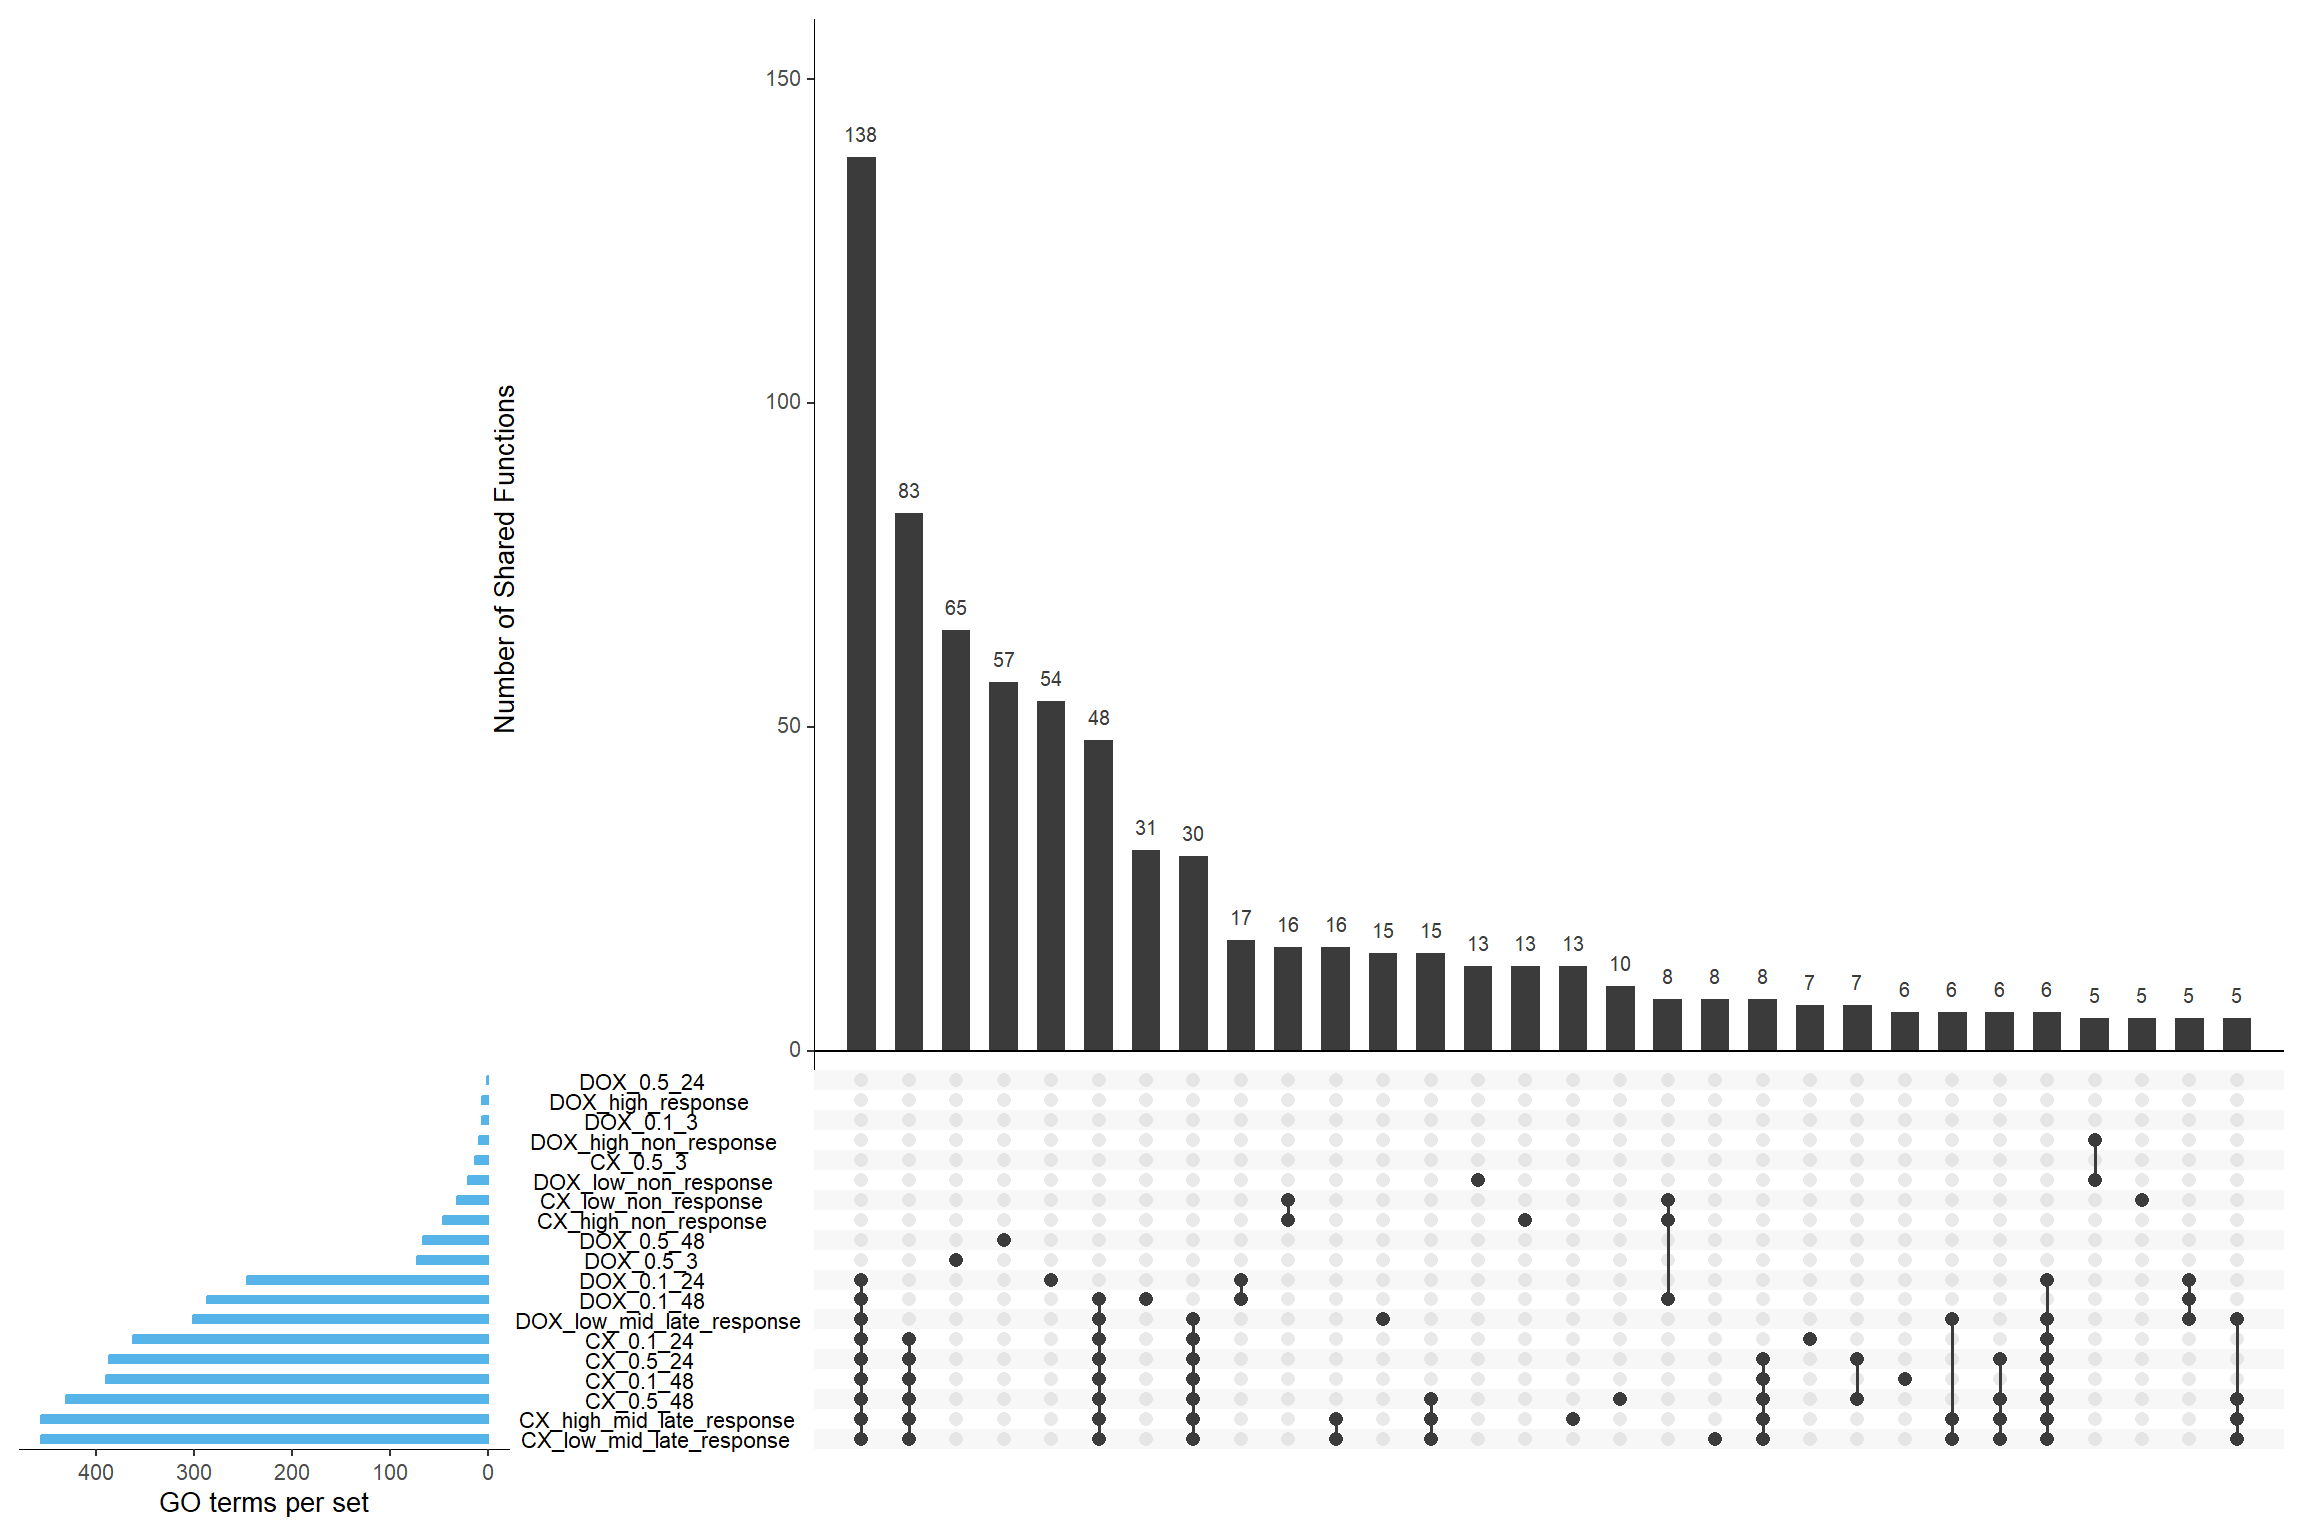
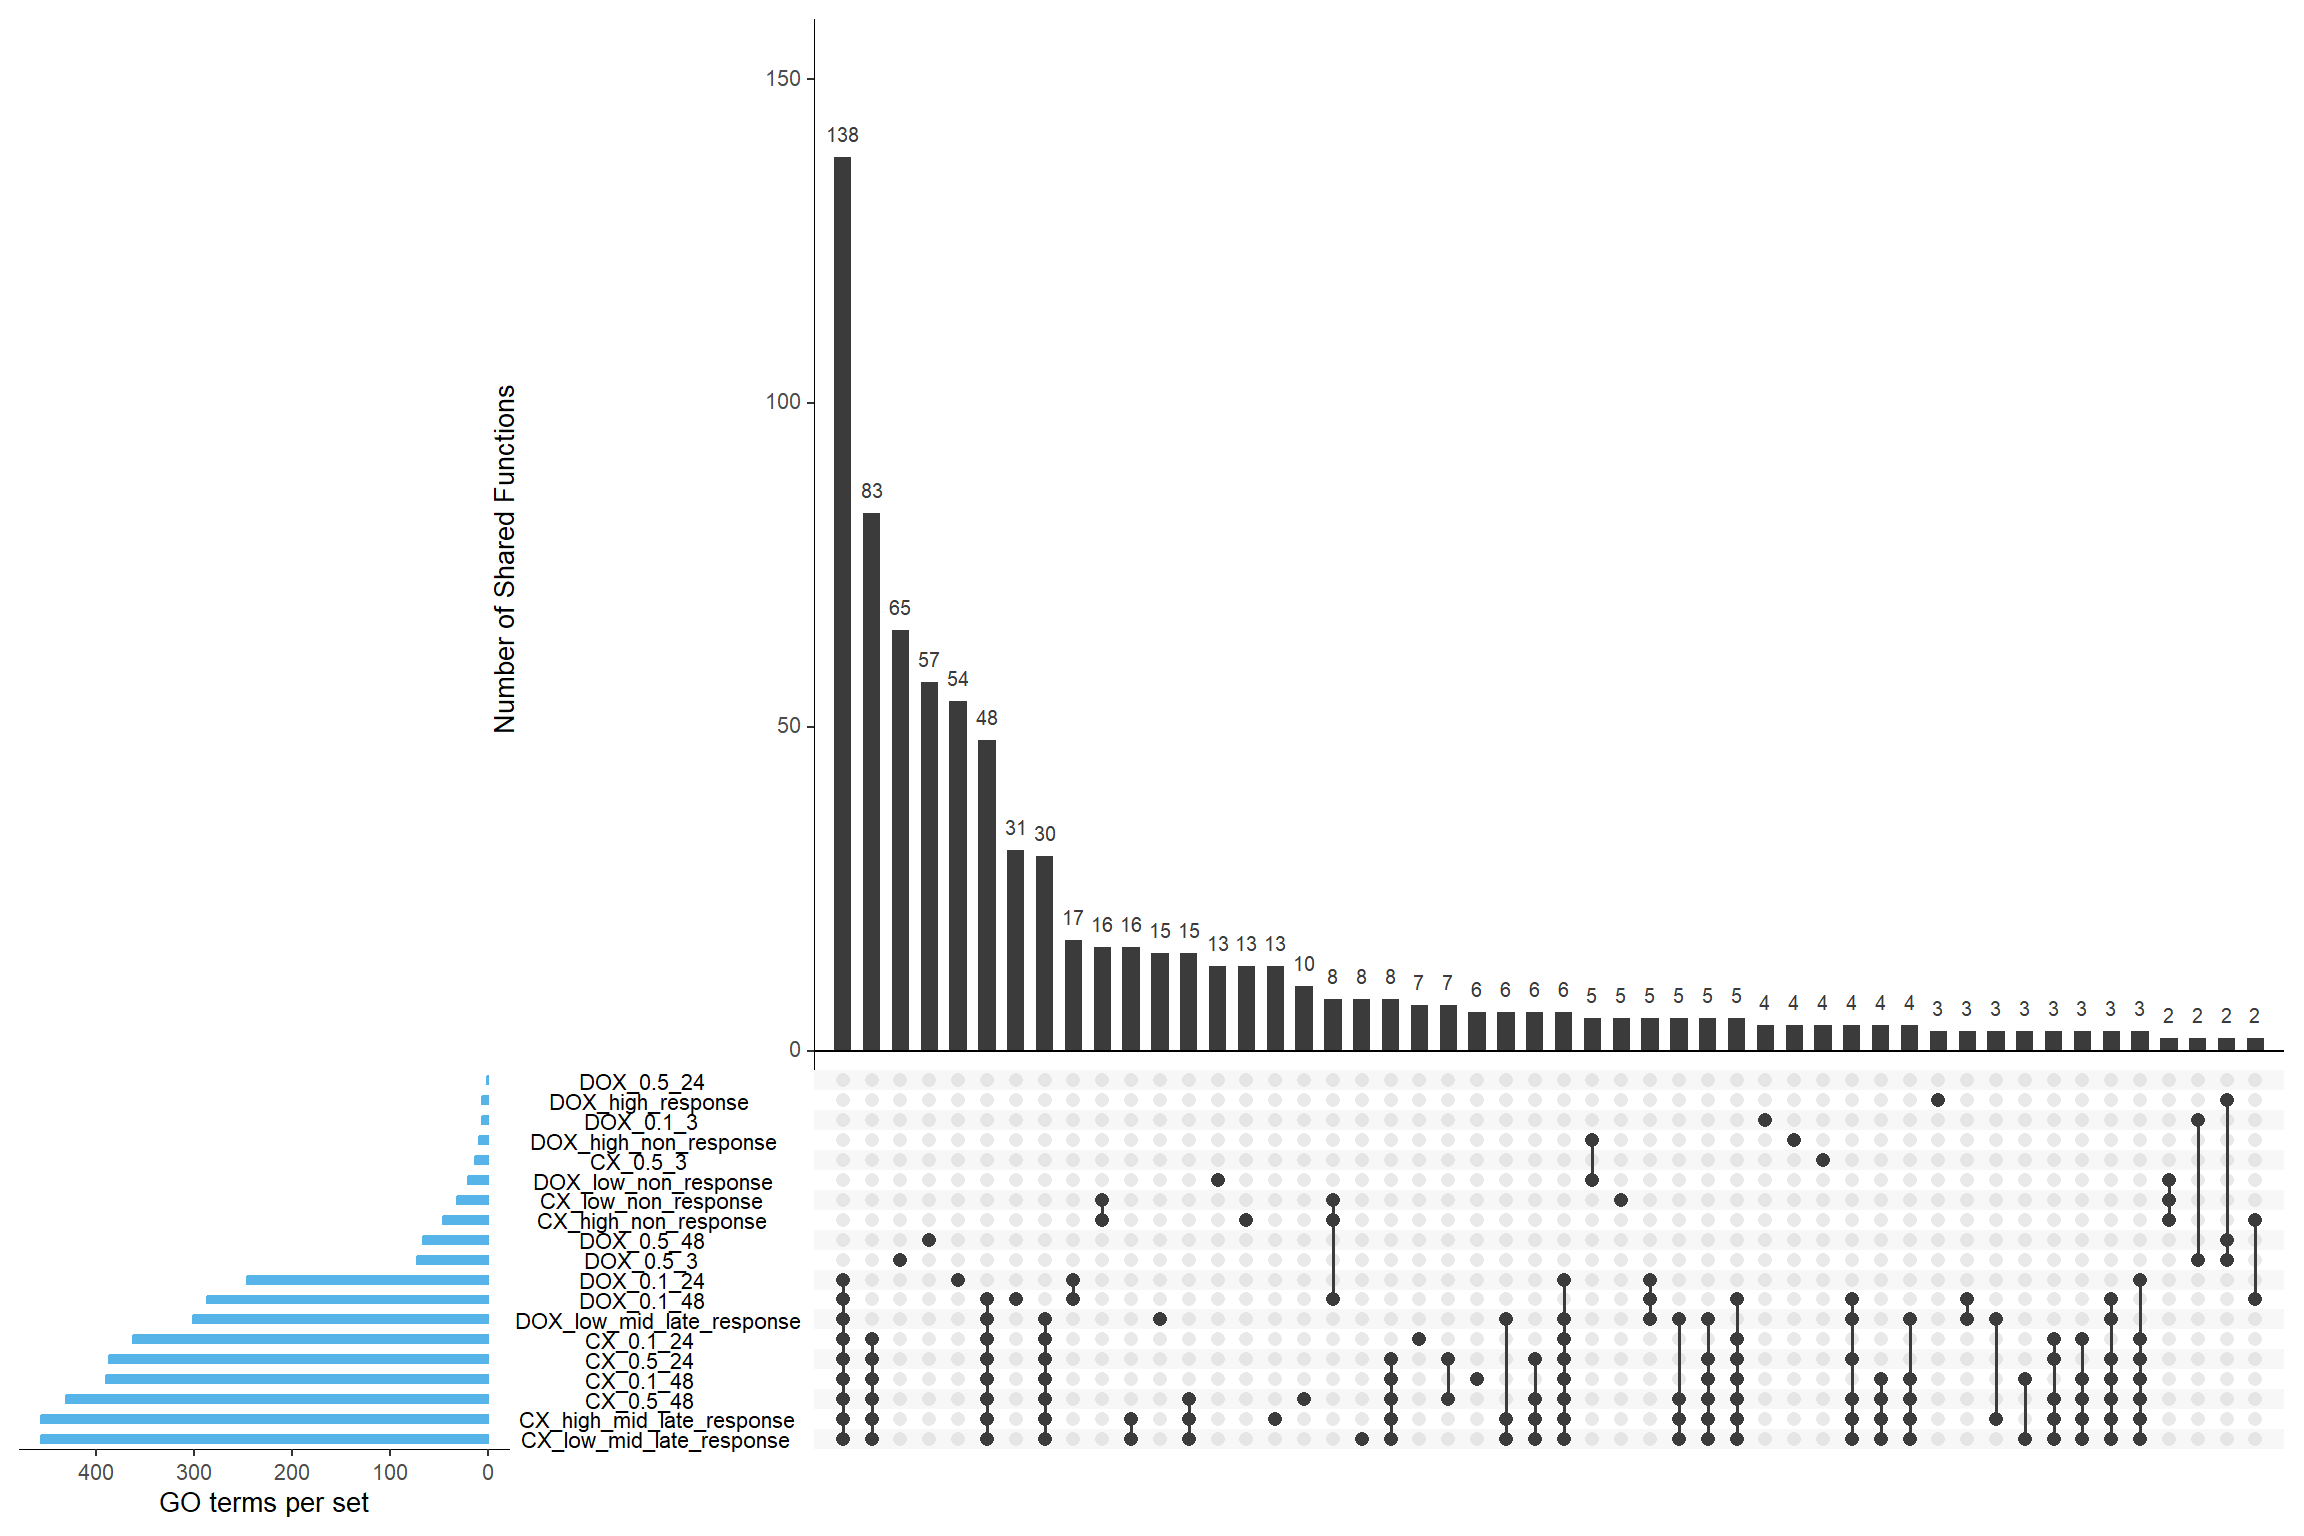
Commit

diff --git a/docs/Corrmotif_overlap.html b/docs/Corrmotif_overlap.html
@@ -512,15 +512,15 @@ project makes it easier to run your code on other machines.</p>
 <div class="panel panel-default">
 <div class="panel-heading">
 <p class="panel-title">
-<a data-toggle="collapse" data-parent="#workflowr-checks" href="#strongRepositoryversionstrongahrefhttpsgithubcomsayanpaul01CX5461Projecttree701caaebc6b0ea903a62a571e29ba6cfb3b04fc9targetblank701caaea">
+<a data-toggle="collapse" data-parent="#workflowr-checks" href="#strongRepositoryversionstrongahrefhttpsgithubcomsayanpaul01CX5461Projecttreec64d3e17db2eb3fb185abdb027dd3c427c3cff39targetblankc64d3e1a">
 <span class="glyphicon glyphicon-ok text-success"
 aria-hidden="true"></span> <strong>Repository version:</strong>
-<a href="https://github.com/sayanpaul01/CX5461_Project/tree/701caaebc6b0ea903a62a571e29ba6cfb3b04fc9" target="_blank">701caae</a>
+<a href="https://github.com/sayanpaul01/CX5461_Project/tree/c64d3e17db2eb3fb185abdb027dd3c427c3cff39" target="_blank">c64d3e1</a>
 </a>
 </p>
 </div>
 <div
[2 lines of base64/hex data omitted]
 class="panel-collapse collapse">
 <div class="panel-body">
 <p>
@@ -530,7 +530,7 @@ reproducibility.
 </p>
 <p>
 The results in this page were generated with repository version
-<a href="https://github.com/sayanpaul01/CX5461_Project/tree/701caaebc6b0ea903a62a571e29ba6cfb3b04fc9" target="_blank">701caae</a>.
+<a href="https://github.com/sayanpaul01/CX5461_Project/tree/c64d3e17db2eb3fb185abdb027dd3c427c3cff39" target="_blank">c64d3e1</a>.
 See the <em>Past versions</em> tab to see a history of the changes made
 to the R Markdown and HTML files.
 </p>
@@ -548,15 +548,8 @@ Ignored files:
     Ignored:    .RData
     Ignored:    .Rhistory
     Ignored:    .Rproj.user/
-    Ignored:    analysis/figure/
-
-Untracked files:
-    Untracked:  data/GO_time/
 
 Unstaged changes:
-    Modified:   Enriched_BP_Terms.csv
-    Modified:   Enriched_CC_Terms.csv
-    Modified:   Enriched_MF_Terms.csv
     Modified:   analysis/Corrmotif_overlap.Rmd
 
 </code></pre>
@@ -603,6 +596,40 @@ Message
 </tr>
 </thead>
 <tbody>
+<tr>
+<td>
+Rmd
+</td>
+<td>
+<a href="https://github.com/sayanpaul01/CX5461_Project/blob/c64d3e17db2eb3fb185abdb027dd3c427c3cff39/analysis/Corrmotif_overlap.Rmd" target="_blank">c64d3e1</a>
+</td>
+<td>
+sayanpaul01
+</td>
+<td>
+2025-03-04
+</td>
+<td>
+Commit
+</td>
+</tr>
+<tr>
+<td>
+html
+</td>
+<td>
+<a href="https://rawcdn.githack.com/sayanpaul01/CX5461_Project/c64d3e17db2eb3fb185abdb027dd3c427c3cff39/docs/Corrmotif_overlap.html" target="_blank">c64d3e1</a>
+</td>
+<td>
+sayanpaul01
+</td>
+<td>
+2025-03-04
+</td>
+<td>
+Commit
+</td>
+</tr>
 <tr>
 <td>
 Rmd
@@ -1291,8 +1318,45 @@ upset(binary_matrix,
       mainbar.y.label = &quot;Number of Shared Functions&quot;,
       sets.x.label = &quot;GO terms per set&quot;,
       text.scale = 1.2,
-      nintersects = 30)</code></pre>
+      nintersects = 50)</code></pre>
 <p><img src="figure/Corrmotif_overlap.Rmd/0verlap2-1.png" width="1152" style="display: block; margin: auto;" /></p>
+<p>
+<button type="button" class="btn btn-default btn-xs btn-workflowr btn-workflowr-fig" data-toggle="collapse" data-target="#fig-0verlap2-1">
+Past versions of 0verlap2-1.png
+</button>
+</p>
+<div id="fig-0verlap2-1" class="collapse">
+<div class="table-responsive">
+<table class="table table-condensed table-hover">
+<thead>
+<tr>
+<th>
+Version
+</th>
+<th>
+Author
+</th>
+<th>
+Date
+</th>
+</tr>
+</thead>
+<tbody>
+<tr>
+<td>
+<a href="https://github.com/sayanpaul01/CX5461_Project/blob/c64d3e17db2eb3fb185abdb027dd3c427c3cff39/docs/figure/Corrmotif_overlap.Rmd/0verlap2-1.png" target="_blank">c64d3e1</a>
+</td>
+<td>
+sayanpaul01
+</td>
+<td>
+2025-03-04
+</td>
+</tr>
+</tbody>
+</table>
+</div>
+</div>
 </div>
 <div id="identify-unique-go-terms-for-each-response-group-1"
 class="section level2">
